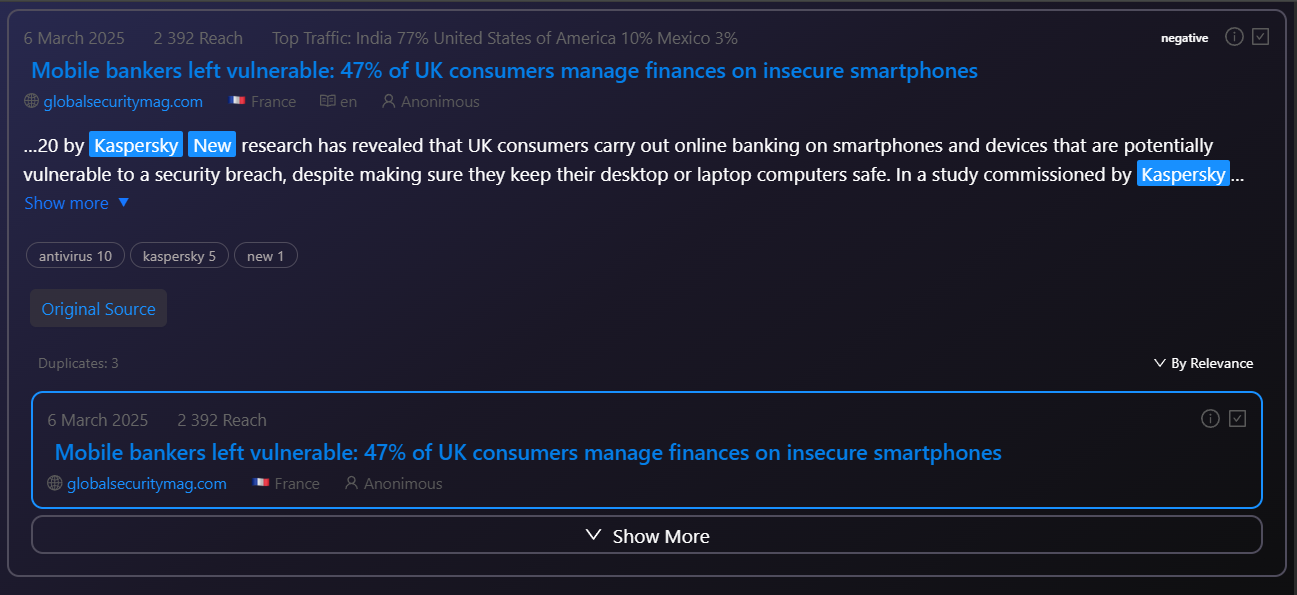
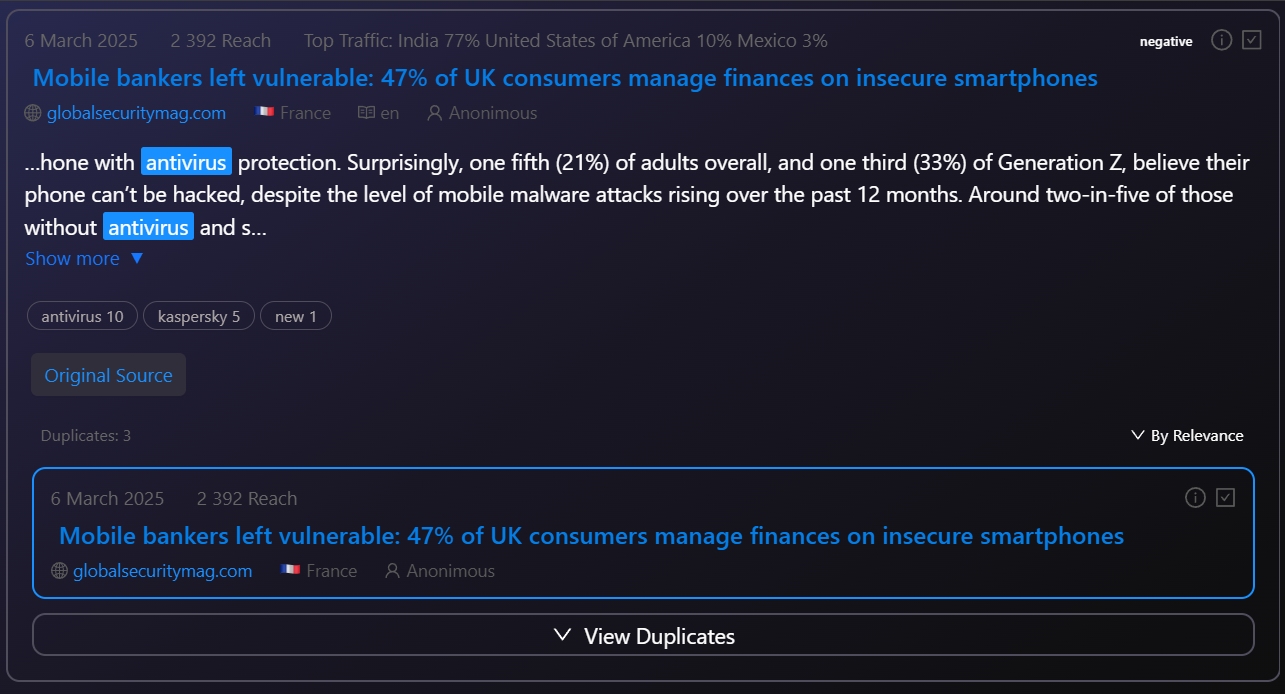
ok

diff --git a/client/src/entities/news/ui/NewsText/NewsText.tsx b/client/src/entities/news/ui/NewsText/NewsText.tsx
@@ -7,7 +7,6 @@ export default function NewsText(): React.JSX.Element {
   const text = useAppSelector((store) => store.news.data?.HIGHLIGHTS);
   const [showAll, setShowAll] = useState(false);
 
-  // Выбираем случайный индекс только при первом рендере
   const randomIndex = Math.floor(Math.random() * (text?.length || 1));
 
   const parseTextWithKW = (text: string) => {
@@ -32,7 +31,6 @@ export default function NewsText(): React.JSX.Element {
 
   return (
     <div className={styles.container}>
-      {/* Отображаем либо случайный элемент, либо все элементы */}
       {showAll ? (
         text.map((item, index) => (
           <p key={index} className={styles.newsText}>
@@ -43,7 +41,6 @@ export default function NewsText(): React.JSX.Element {
         <p className={styles.newsText}>{parseTextWithKW(text[randomIndex])}</p>
       )}
 
-      {/* Кнопка для переключения режима */}
       <Button
         className={styles.showMoreButton}
         type="link"

diff --git a/client/src/entities/news/ui/SecondNewsHeader./Duplicates.tsx b/client/src/entities/news/ui/SecondNewsHeader./Duplicates.tsx
@@ -52,11 +52,7 @@ export default function Duplicates(): React.JSX.Element {
               <CheckSquareOutlined className={styles.cardBlock__icon} />
             </div>
           </div>
-
-          {/* Заголовок */}
           <h3 className={styles.cardBlock__title}>{news.TI || 'No title'}</h3>
-
-          {/* Футер */}
           <div className={styles.cardBlock__footer}>
             <div className={styles.cardBlock__meta}>
               <span className={styles.cardBlock__metaItem}>
@@ -87,7 +83,7 @@ export default function Duplicates(): React.JSX.Element {
       </div>
       <Button className={styles.showMoreButton}>
         <DownOutlined />
-        Show More
+        View Duplicates
       </Button>
     </div>
   );

diff --git a/client/src/widgets/newsCard/NewsCard.tsx b/client/src/widgets/newsCard/NewsCard.tsx
@@ -1,11 +1,10 @@
 import React from 'react';
 import styles from './NewsCard.module.scss';
-
 import { Button } from 'antd';
-import { HeaderOfCard } from '../../entities/news/ui/HeaderOfCard/HeaderOfCard';
 import NewsText from '../../entities/news/ui/NewsText/NewsText';
 import NewsKeyWords from '../../entities/news/ui/NewsKeyWords/NewsKeyWords';
 import Duplicates from '../../entities/news/ui/SecondNewsHeader./Duplicates';
+import HeaderOfCard from '../../entities/news/ui/HeaderOfCard/HeaderOfCard';
 
 export default function NewsCard(): React.JSX.Element {
   return (

diff --git a/client/src/entities/news/ui/HeaderOfCard/HeaderOfCard.tsx b/client/src/entities/news/ui/HeaderOfCard/HeaderOfCard.tsx
@@ -10,7 +10,7 @@ import { useAppDispatch, useAppSelector } from '../../../../shared/lib/hooks';
 import { fetchNews } from '../../model/newsSlice';
 import styles from './HeaderOfCard.module.scss';
 
-export const HeaderOfCard: React.FC = () => {
+export default function HeaderOfCard(): React.JSX.Element {
   const dispatch = useAppDispatch();
   const news = useAppSelector((state) => state.news.data);
 
@@ -108,4 +108,4 @@ export const HeaderOfCard: React.FC = () => {
       </div>
     </div>
   );
-};
+}

diff --git a/client/src/entities/news/ui/SecondNewsHeader./Duplicates.module.scss b/client/src/entities/news/ui/SecondNewsHeader./Duplicates.module.scss
@@ -32,7 +32,7 @@ $button-border: #4f4c5c;
 
 .showMoreButton {
   width: 100%;
-  margin-top: 5px;
+  margin-top: 10px;
   background: none;
   color: white;
   border: 2px solid $button-border;

diff --git a/README.md b/README.md
@@ -2,8 +2,7 @@
 
 ---
 
-![Project Screenshot](./image.png)
-
+![Project Screenshot](image.png)
 ---
 
 ## 📖 Описание
